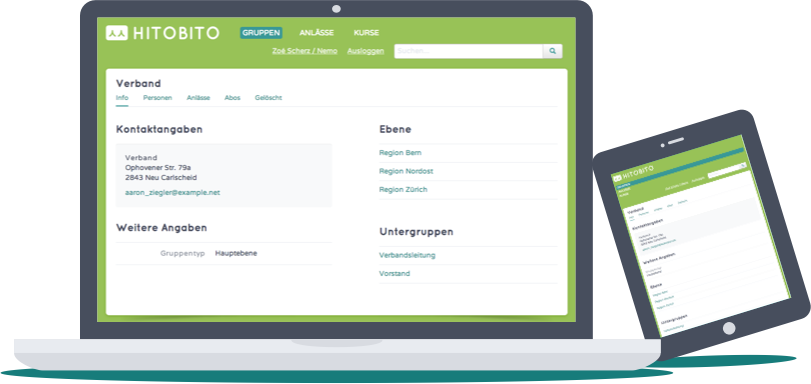
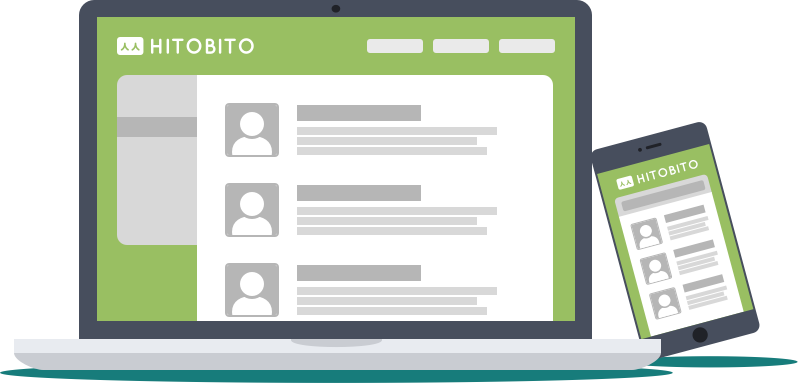
Change hero illustration

Changed region(s): [[0.0, 0.0, 1.0, 1.0]]

diff --git a/public/de/index.html b/public/de/index.html
@@ -50,7 +50,7 @@
             <h1 class="hero-title">
               Mitglieder zentral online verwalten
             </h1>
-            <img alt="Schöne auf Desktop und Tablet" class="hero-illus" src="../images/hero.png" />
+            <img alt="Schöne auf Desktop und Tablet" class="hero-illus" src="../images/hero.svg" />
           </div>
         </section>
         <section id="features">

diff --git a/public/en/index.html b/public/en/index.html
@@ -50,7 +50,7 @@
             <h1 class="hero-title">
               Mitglieder zentral online verwalten
             </h1>
-            <img alt="Schöne auf Desktop und Tablet" class="hero-illus" src="../images/hero.png" />
+            <img alt="Schöne auf Desktop und Tablet" class="hero-illus" src="../images/hero.svg" />
           </div>
         </section>
         <section id="features">

diff --git a/public/index.html b/public/index.html
@@ -50,7 +50,7 @@
             <h1 class="hero-title">
               Mitglieder zentral online verwalten
             </h1>
-            <img alt="Schöne auf Desktop und Tablet" class="hero-illus" src="./images/hero.png" />
+            <img alt="Schöne auf Desktop und Tablet" class="hero-illus" src="./images/hero.svg" />
           </div>
         </section>
         <section id="features">
